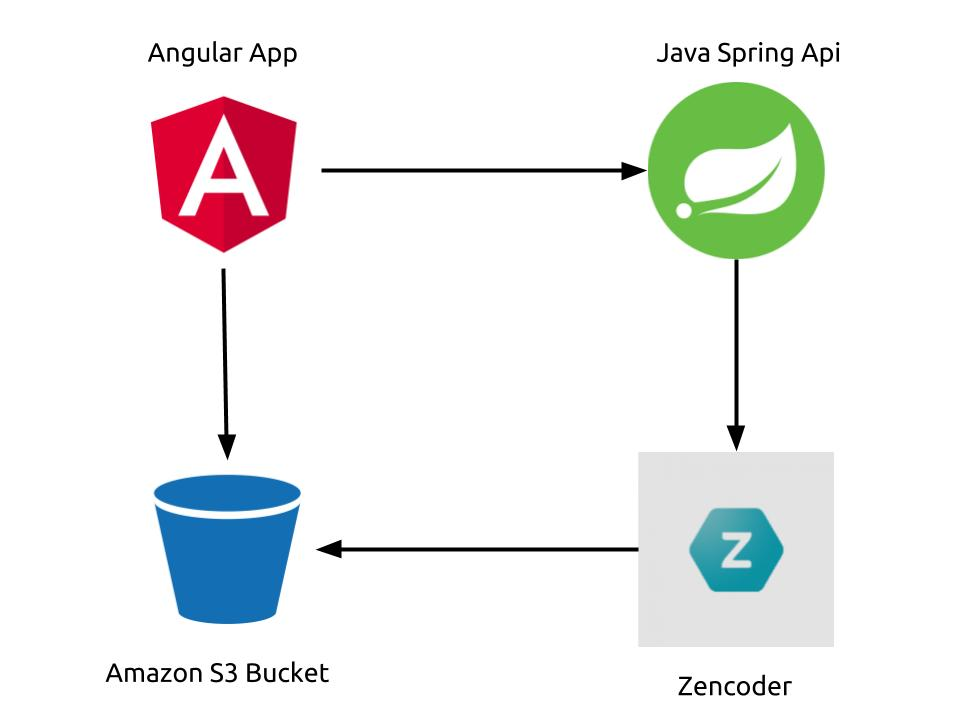
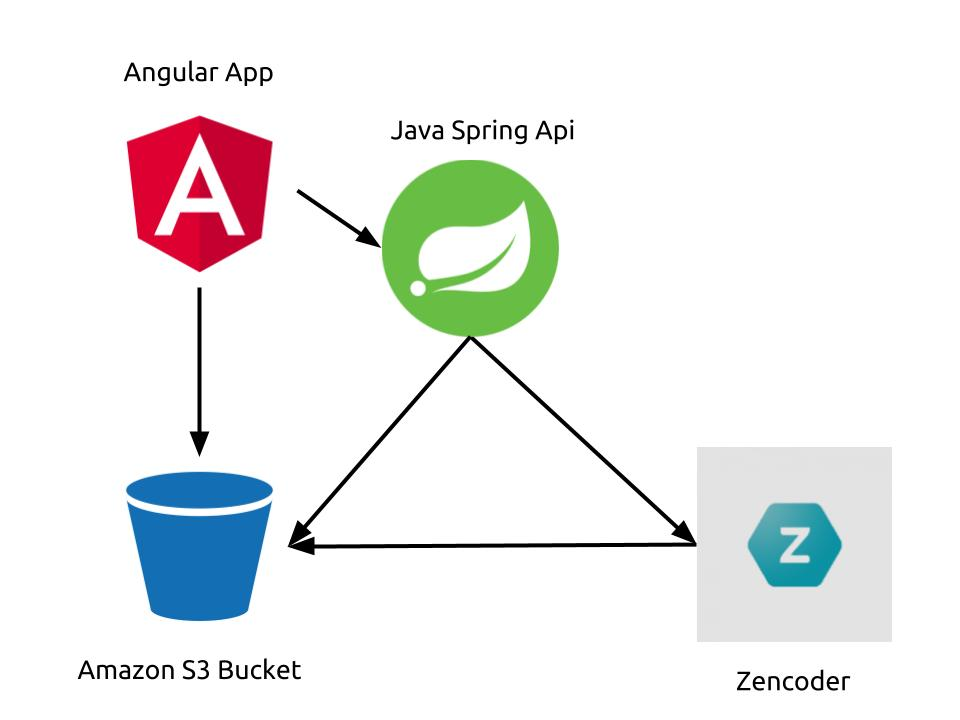
update docs

diff --git a/README.md b/README.md
@@ -18,7 +18,6 @@ A aplicação Demo está rodando no [Heroku](http://www.heroku.com).
 ### Diagrama de componentes
 A aplicação está dividida em um WebApp AngularJS e uma API em Java Spring, além dos Amazon S3 e Zencoder.
 
-***Desatualizado***
 ![Componentes](/docs/componentes.jpg)
 
 
@@ -35,9 +34,7 @@ A conversão e exibição do vídeo se dá nos seguintes passos:
 1. O vídeo está convertido
 1. Angular App exibe o vídeo
 
-***Desatualizado***
 ![Sequência](/docs/sequencia.png)
-
 
 ## Próximos passos
 Algumas sugestão de melhorias são:
